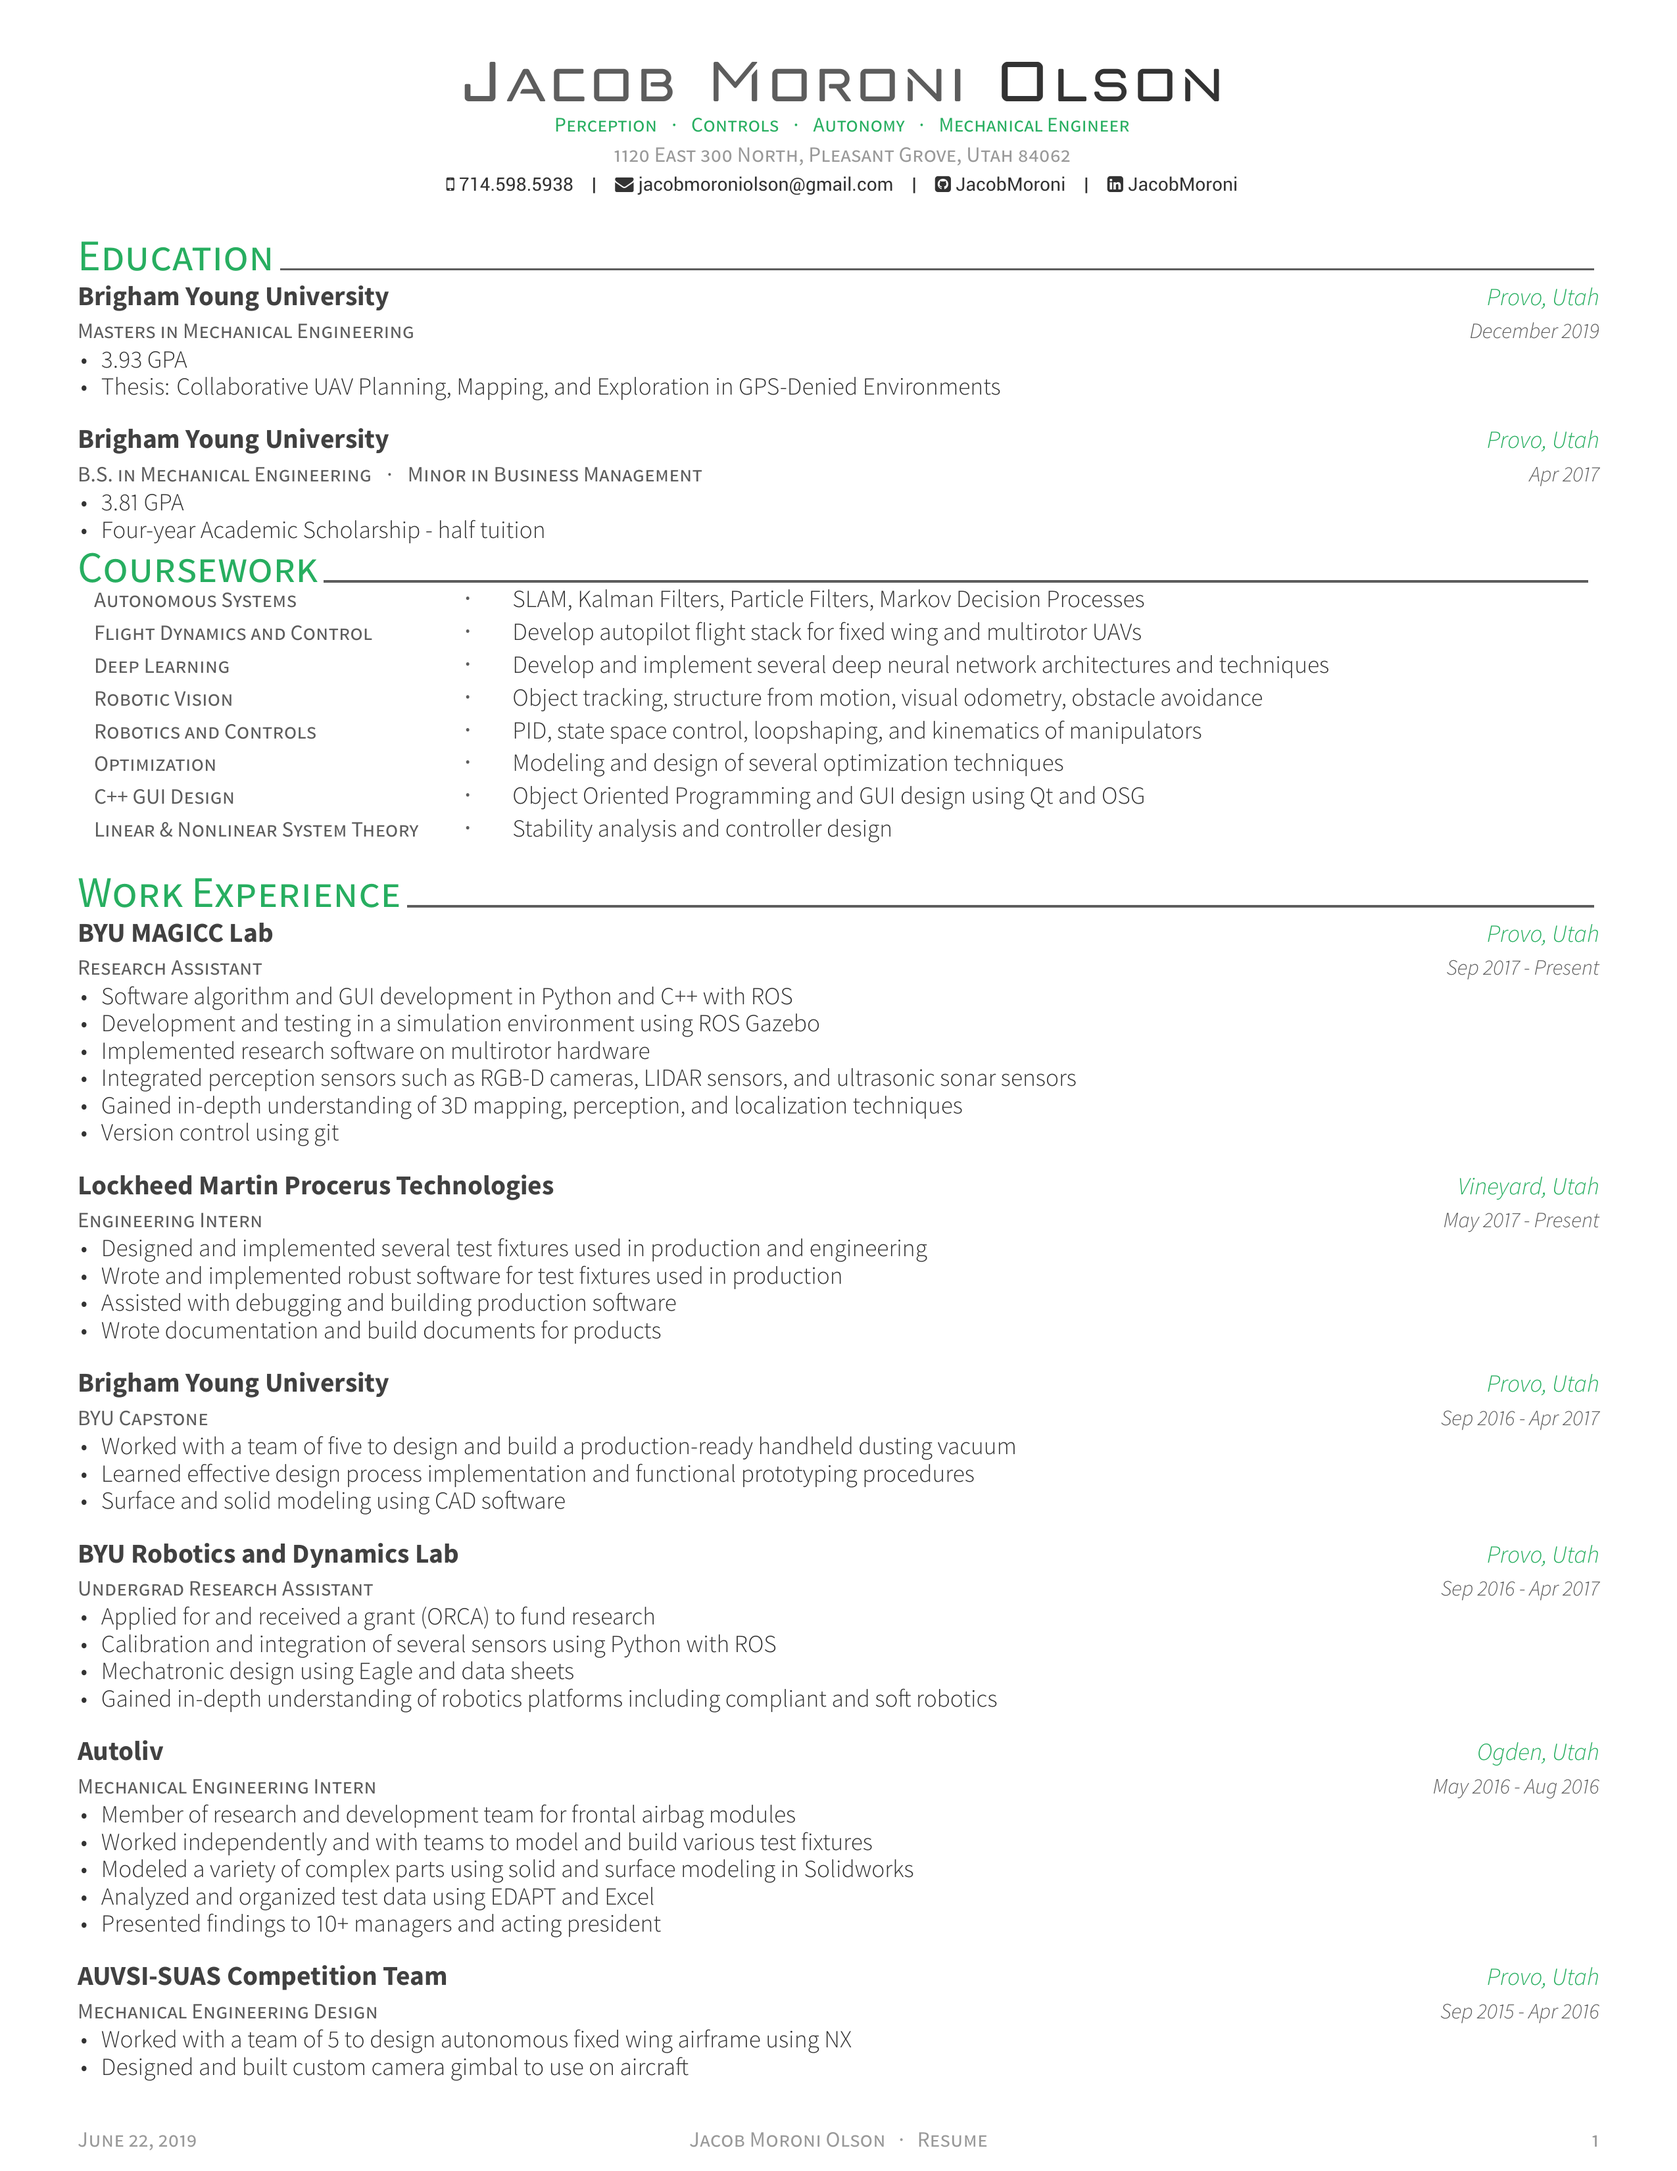
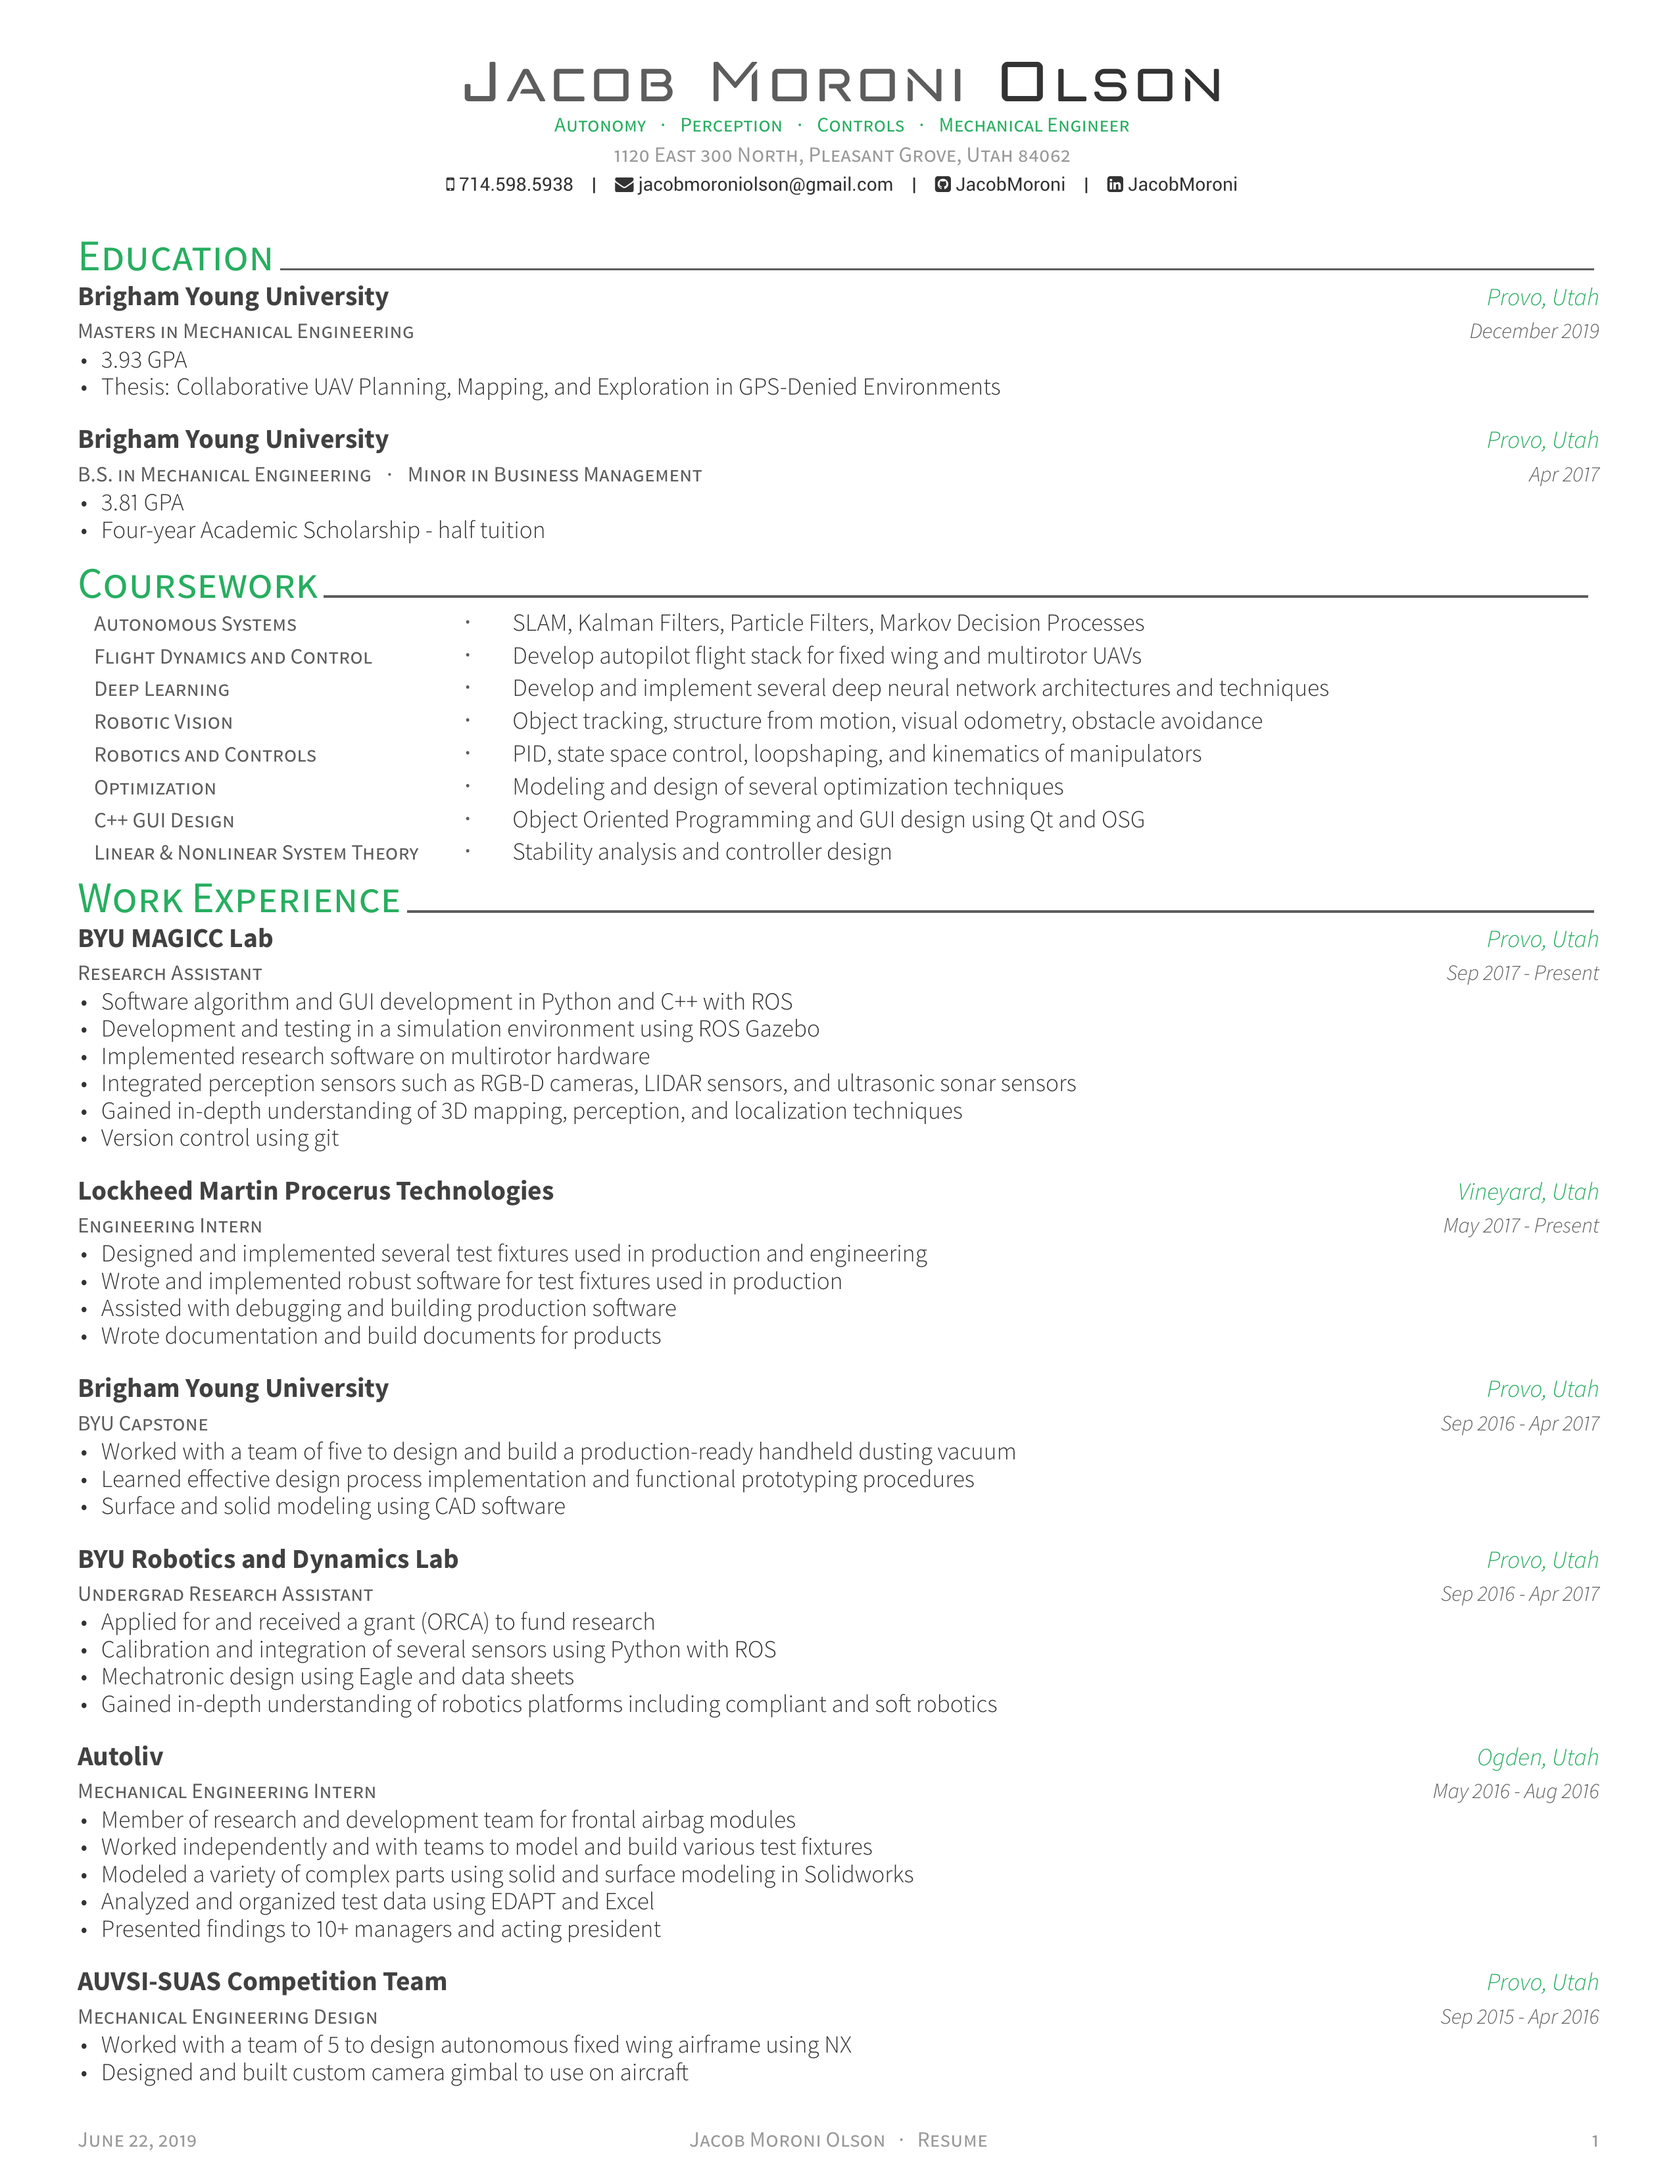
updated formatting

diff --git a/documents/resume/coursework.tex b/documents/resume/coursework.tex
@@ -5,7 +5,7 @@
 %-------------------------------------------------------------------------------
 %	CONTENT
 %---------------------------------------------------------------
-\begin{cventries}
+% \begin{cventries}
   \begin{cvlongtable}
       \longtableentry{Autonomous Systems}{SLAM, Kalman Filters, Particle Filters, Markov Decision Processes}
       \longtableentry{Flight Dynamics and Control}{Develop autopilot flight stack for fixed wing and multirotor UAVs}
@@ -16,4 +16,4 @@
       \longtableentry{C++ GUI Design}{Object Oriented Programming and GUI design using Qt and OSG}
       \longtableentry{Linear \& Nonlinear System Theory}{Stability analysis and controller design}
   \end{cvlongtable}
-\end{cventries}
+% \end{cventries}

diff --git a/documents/resume.tex b/documents/resume.tex
@@ -56,9 +56,9 @@
 %	Comment any of the lines below if they are not required
 %-------------------------------------------------------------------------------
 % Available options: circle|rectangle,edge/noedge,left/right
-% \photo[rectangle,edge,right]{./examples/profile}
+% \photo[rectangle,noedge,right]{./githubqrcode.png}
 \name{Jacob Moroni}{Olson}
-\position{Perception {\enskip\cdotp\enskip} Controls {\enskip\cdotp\enskip} Autonomy {\enskip\cdotp\enskip} Mechanical Engineer}
+\position{Autonomy {\enskip\cdotp\enskip} Perception {\enskip\cdotp\enskip} Controls {\enskip\cdotp\enskip} Mechanical Engineer}
 \address{1120 East 300 North, Pleasant Grove, Utah 84062}
 
 \mobile{714.598.5938}

diff --git a/documents/resume/education.tex b/documents/resume/education.tex
@@ -37,4 +37,4 @@
 
 %---------------------------------------------------------
 \end{cventries}
-\vspace{-7mm}
+\vspace{-5mm}
